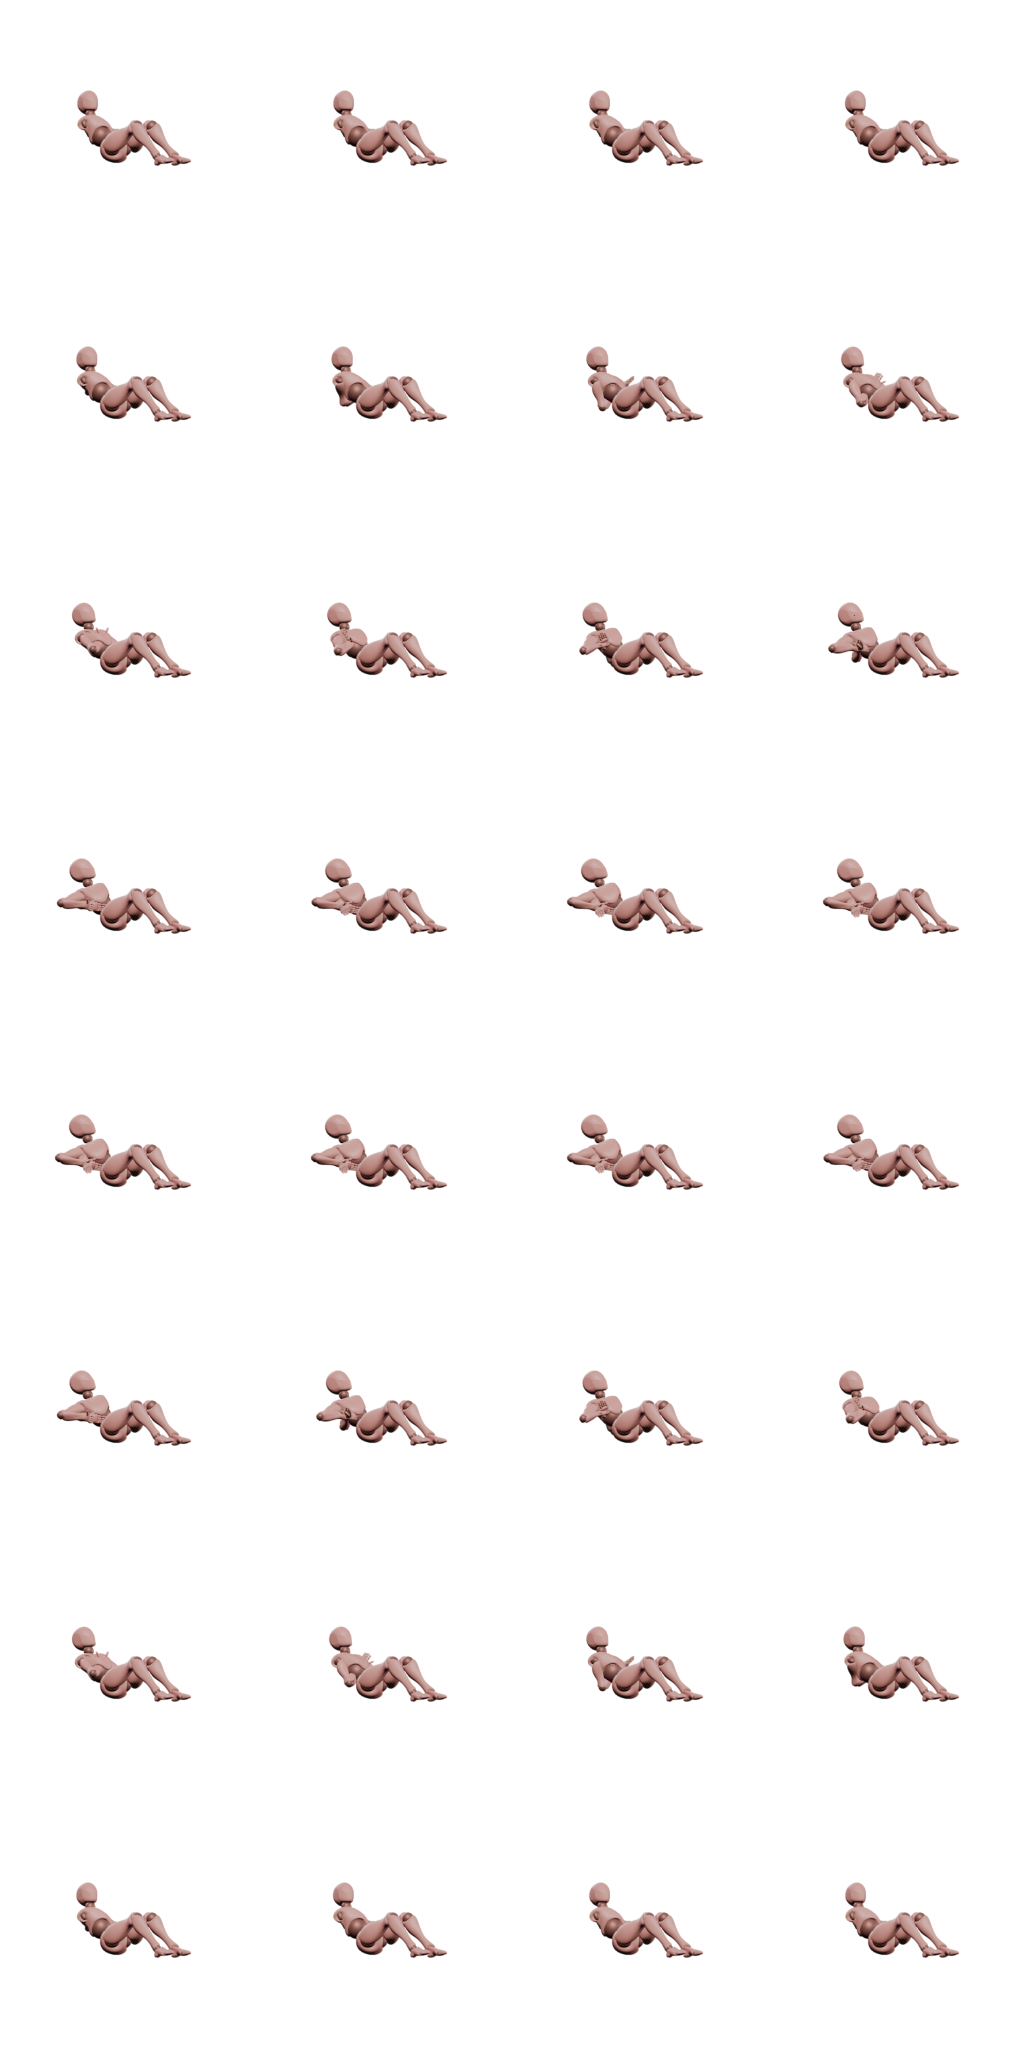
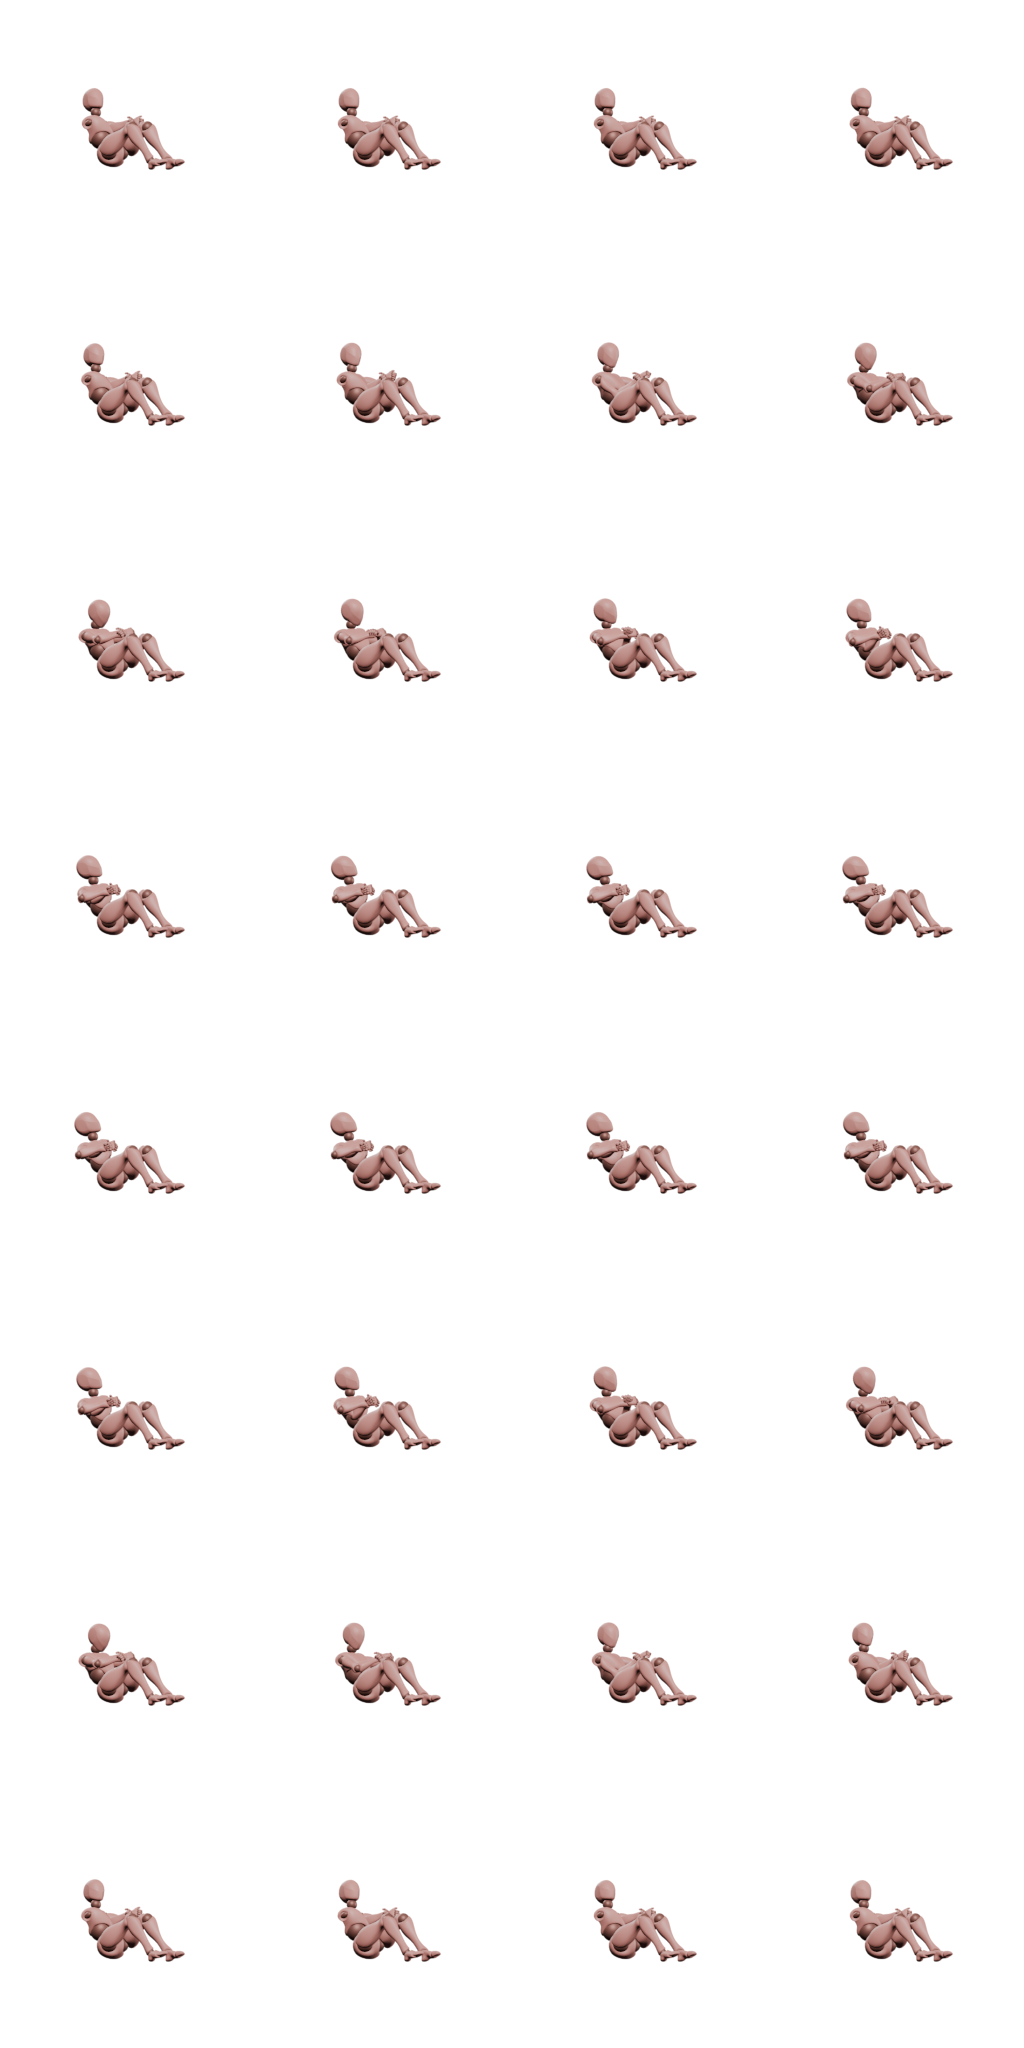
Le russian twist est assis, pas allongé
Trois versions de suite ont donné un corps couché là où il fallait un corps
assis, et la cause était chaque fois la même : le tronc trop incliné.

Le relevé donnait 63 à 68° avec l'horizontale. On l'a cru trop redressé et
ramené à 50° au jugé, puis remonté à 60° — sans jamais vérifier autrement
qu'à l'œil, sur un mannequin nu dont la masse se lit mal.

Ce qui a tranché, c'est de poser une image de la vidéo à côté d'une image du
rendu, à la même échelle. Sur la vidéo, le segment hanche-épaule fait 76°
avec le tapis : la démonstratrice est assise, penchée d'un petit quart de
tour en arrière. Le relevé avait raison depuis le début et l'œil avait tort.

Le tronc est donc à 72°, la cuisse à 35° au-dessus de l'horizontale et le
tibia redescend de 50° — genou fléchi à 96°, talons décollés. La silhouette
du rendu et celle de la vidéo ont maintenant le **même rapport hauteur sur
largeur**, 0,62 contre 0,63 : c'est une mesure, pas une impression, et c'est
elle qui manquait aux trois essais précédents.

Deux autres corrections vont avec :

Les mains se tiennent **devant le sternum** et non à hauteur de hanche. La
cible se calcule à partir de la normale de la poitrine, qui tourne avec
elle : trente centimètres devant un buste incliné, pivotés de quarante
degrés d'un côté puis de l'autre. Les versions précédentes les faisaient
balayer le ventre pendant que le buste restait planté, ce qui est un autre
exercice.
[…]

diff --git a/scripts/gestes_generes.py b/scripts/gestes_generes.py
@@ -407,17 +407,30 @@ JAMBE_REPLIEE = {
 #: 14 cm, genou à 30, cheville à 12 — talon décollé de quelques centimètres,
 #: ce que montre la vidéo.
 ASSIS_EN_ARRIERE = {
-    _os("Spine"): (+0.00, +0.64, +0.77),
-    _os("Spine1"): (+0.00, +0.64, +0.77),
-    _os("Spine2"): (+0.00, +0.64, +0.77),
-    _os("Neck"): (+0.00, +0.68, +0.73),
-    _os("Head"): (+0.00, +0.72, +0.69),
-    _os("LeftUpLeg"): (+0.06, -0.87, +0.50),
-    _os("RightUpLeg"): (-0.06, -0.87, +0.50),
-    _os("LeftLeg"): (+0.04, -0.72, -0.69),
-    _os("RightLeg"): (-0.04, -0.72, -0.69),
-    _os("LeftFoot"): (+0.00, -0.87, -0.50),
-    _os("RightFoot"): (+0.00, -0.87, -0.50),
+    # Soixante-douze degrés, et cette valeur a fait trois allers-retours.
+    #
+    # Le relevé donnait 63-68°, on l'a cru trop redressé et ramené à 50° au
+    # jugé, puis à 60°. Le rendu restait un corps allongé. Ce qui a tranché,
+    # c'est de poser une image de la vidéo à côté d'une image du rendu, à la
+    # même échelle : sur la vidéo, le segment hanche-épaule fait 76° avec le
+    # tapis. La démonstratrice est **assise**, penchée d'un petit quart de tour
+    # en arrière, pas couchée. Le relevé avait raison et l'œil avait tort.
+    _os("Spine"): (+0.00, +0.31, +0.95),
+    _os("Spine1"): (+0.00, +0.31, +0.95),
+    _os("Spine2"): (+0.00, +0.31, +0.95),
+    # La tête regarde **devant**, vers les genoux, et non le plafond.
+    _os("Neck"): (+0.00, +0.10, +0.99),
+    _os("Head"): (+0.00, -0.25, +0.97),
+    # Cuisse à trente-cinq degrés au-dessus de l'horizontale, tibia qui
+    # redescend de cinquante : genou fléchi à quatre-vingt-seize degrés,
+    # cheville à vingt-cinq centimètres du sol. C'est ce que montre la vidéo —
+    # les talons sont décollés, les genoux assez hauts.
+    _os("LeftUpLeg"): (+0.06, -0.82, +0.57),
+    _os("RightUpLeg"): (-0.06, -0.82, +0.57),
+    _os("LeftLeg"): (+0.04, -0.65, -0.76),
+    _os("RightLeg"): (-0.04, -0.65, -0.76),
+    _os("LeftFoot"): (+0.00, -0.94, -0.34),
+    _os("RightFoot"): (+0.00, -0.94, -0.34),
 }
 
 
@@ -1208,6 +1221,9 @@ GESTES = {
         # développé couché.
         "ancrage": False,
         "hauteur": 0.192,
+        # Les mains se **joignent** devant le sternum, ou tiennent un poids.
+        # Doigts écartés, on voyait deux mains ouvertes agitées devant soi.
+        "poings": 1.0,
         "symetrique": False,
         # Un temps de chaque côté, rien au centre — on y passe, on ne s'y
         # arrête pas.
@@ -1216,10 +1232,10 @@ GESTES = {
             # Mains à **gauche** du personnage. Debout comme couché sur le dos,
             # sa gauche est en +X.
             _pose(ASSIS_EN_ARRIERE, {
-                _os("Spine1"): APlat((+0.00, +0.64, +0.77),
-                                     paume=(+0.64, -0.59, +0.49)),
-                _os("Spine2"): APlat((+0.10, +0.63, +0.77),
-                                     paume=(+0.64, -0.59, +0.49)),
+                _os("Spine1"): APlat((+0.00, +0.31, +0.95),
+                                     paume=(+0.64, -0.73, +0.24)),
+                _os("Spine2"): APlat((+0.10, +0.29, +0.95),
+                                     paume=(+0.64, -0.73, +0.24)),
                 _os("Neck"): (+0.15, +0.62, +0.77),
                 _os("Head"): (+0.30, +0.65, +0.70),
                 # Les mains sont **jointes** : c'est un point qu'on connaît, pas
@@ -1227,14 +1243,20 @@ GESTES = {
                 # ensemble d'un bout à l'autre du balancement, ce que deux
                 # directions ne garantissent jamais.
                 #
-                # Vingt-quatre centimètres de part et d'autre, et pas
-                # trente-deux : au-delà, le bras opposé doit se tendre à fond
-                # pour atteindre la cible et l'on obtient deux bras raides
-                # tournoyant autour d'un buste. Ce qui porte le mouvement, c'est
-                # la rotation du buste — quarante degrés de chaque côté — et les
-                # mains restent près du ventre, comme dans la vidéo.
-                _os("LeftArm"): Appui((+0.24, 0.13, 0.26), (+1, 0, -0.3)),
-                _os("RightArm"): Appui((+0.24, 0.13, 0.26), (+1, 0, -0.3)),
+                # Elles se tiennent **devant le sternum**, et c'est le point
+                # que deux versions successives avaient manqué. On les avait
+                # d'abord envoyées à hauteur de hanche, puis un peu moins bas :
+                # dans les deux cas elles balayaient le ventre pendant que le
+                # buste restait planté, ce qui est un autre exercice.
+                #
+                # La vidéo montre l'inverse : les mains ne quittent jamais le
+                # devant de la poitrine, à une trentaine de centimètres du
+                # sternum, et ce sont les épaules qui les emmènent. La cible se
+                # calcule donc à partir de la **normale de la poitrine**, qui
+                # tourne avec elle : trente centimètres devant un buste incliné,
+                # pivotés de quarante degrés d'un côté puis de l'autre.
+                _os("LeftArm"): Appui((+0.19, -0.15, 0.47), (+1, 0, -0.3)),
+                _os("RightArm"): Appui((+0.19, -0.15, 0.47), (+1, 0, -0.3)),
                 _os("LeftHand"): SUIVRE,
                 _os("RightHand"): SUIVRE,
             }),
@@ -1244,25 +1266,25 @@ GESTES = {
                 # posé à plat sur une pose et libre sur une autre. C'est une
                 # bonne exigence — un roulis déclaré une fois sur deux ne veut
                 # rien dire.
-                _os("Spine1"): APlat((+0.00, +0.64, +0.77),
-                                     paume=(+0.00, -0.77, +0.64)),
-                _os("Spine2"): APlat((+0.00, +0.64, +0.77),
-                                     paume=(+0.00, -0.77, +0.64)),
-                _os("LeftArm"): Appui((+0.00, 0.16, 0.40), (+1, 0, -0.3)),
-                _os("RightArm"): Appui((+0.00, 0.16, 0.40), (-1, 0, -0.3)),
+                _os("Spine1"): APlat((+0.00, +0.31, +0.95),
+                                     paume=(+0.00, -0.95, +0.31)),
+                _os("Spine2"): APlat((+0.00, +0.31, +0.95),
+                                     paume=(+0.00, -0.95, +0.31)),
+                _os("LeftArm"): Appui((+0.00, -0.22, 0.49), (+1, 0, -0.3)),
+                _os("RightArm"): Appui((+0.00, -0.22, 0.49), (-1, 0, -0.3)),
                 _os("LeftHand"): SUIVRE,
                 _os("RightHand"): SUIVRE,
             }),
             # Mains à **droite**, miroir de la première clé.
             _pose(ASSIS_EN_ARRIERE, {
-                _os("Spine1"): APlat((+0.00, +0.64, +0.77),
-                                     paume=(-0.64, -0.59, +0.49)),
-                _os("Spine2"): APlat((-0.10, +0.63, +0.77),
-                                     paume=(-0.64, -0.59, +0.49)),
+                _os("Spine1"): APlat((+0.00, +0.31, +0.95),
+                                     paume=(-0.64, -0.73, +0.24)),
+                _os("Spine2"): APlat((-0.10, +0.29, +0.95),
+                                     paume=(-0.64, -0.73, +0.24)),
                 _os("Neck"): (-0.15, +0.62, +0.77),
                 _os("Head"): (-0.30, +0.65, +0.70),
-                _os("LeftArm"): Appui((-0.24, 0.13, 0.26), (-1, 0, -0.3)),
-                _os("RightArm"): Appui((-0.24, 0.13, 0.26), (-1, 0, -0.3)),
+                _os("LeftArm"): Appui((-0.19, -0.15, 0.47), (-1, 0, -0.3)),
+                _os("RightArm"): Appui((-0.19, -0.15, 0.47), (-1, 0, -0.3)),
                 _os("LeftHand"): SUIVRE,
                 _os("RightHand"): SUIVRE,
             }),
